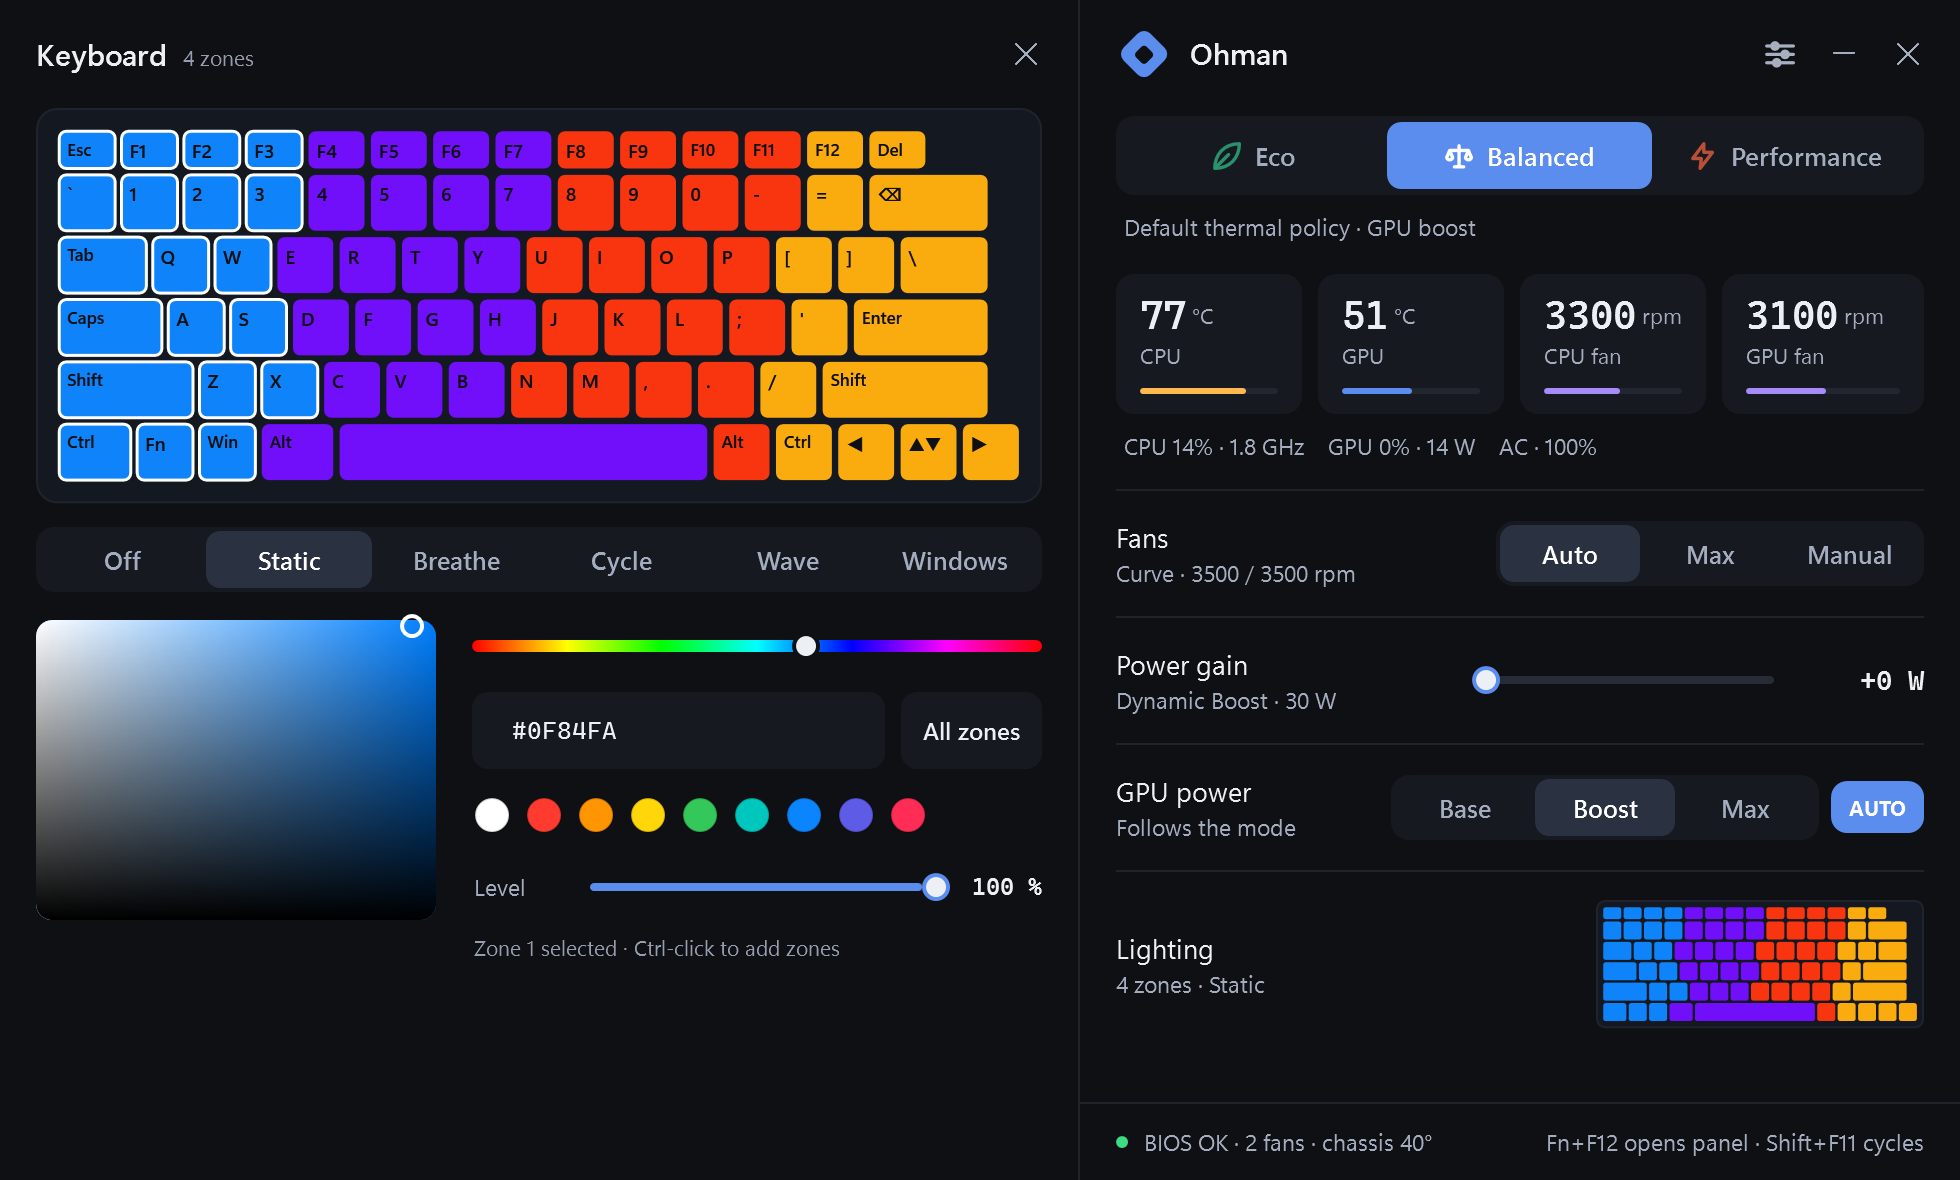
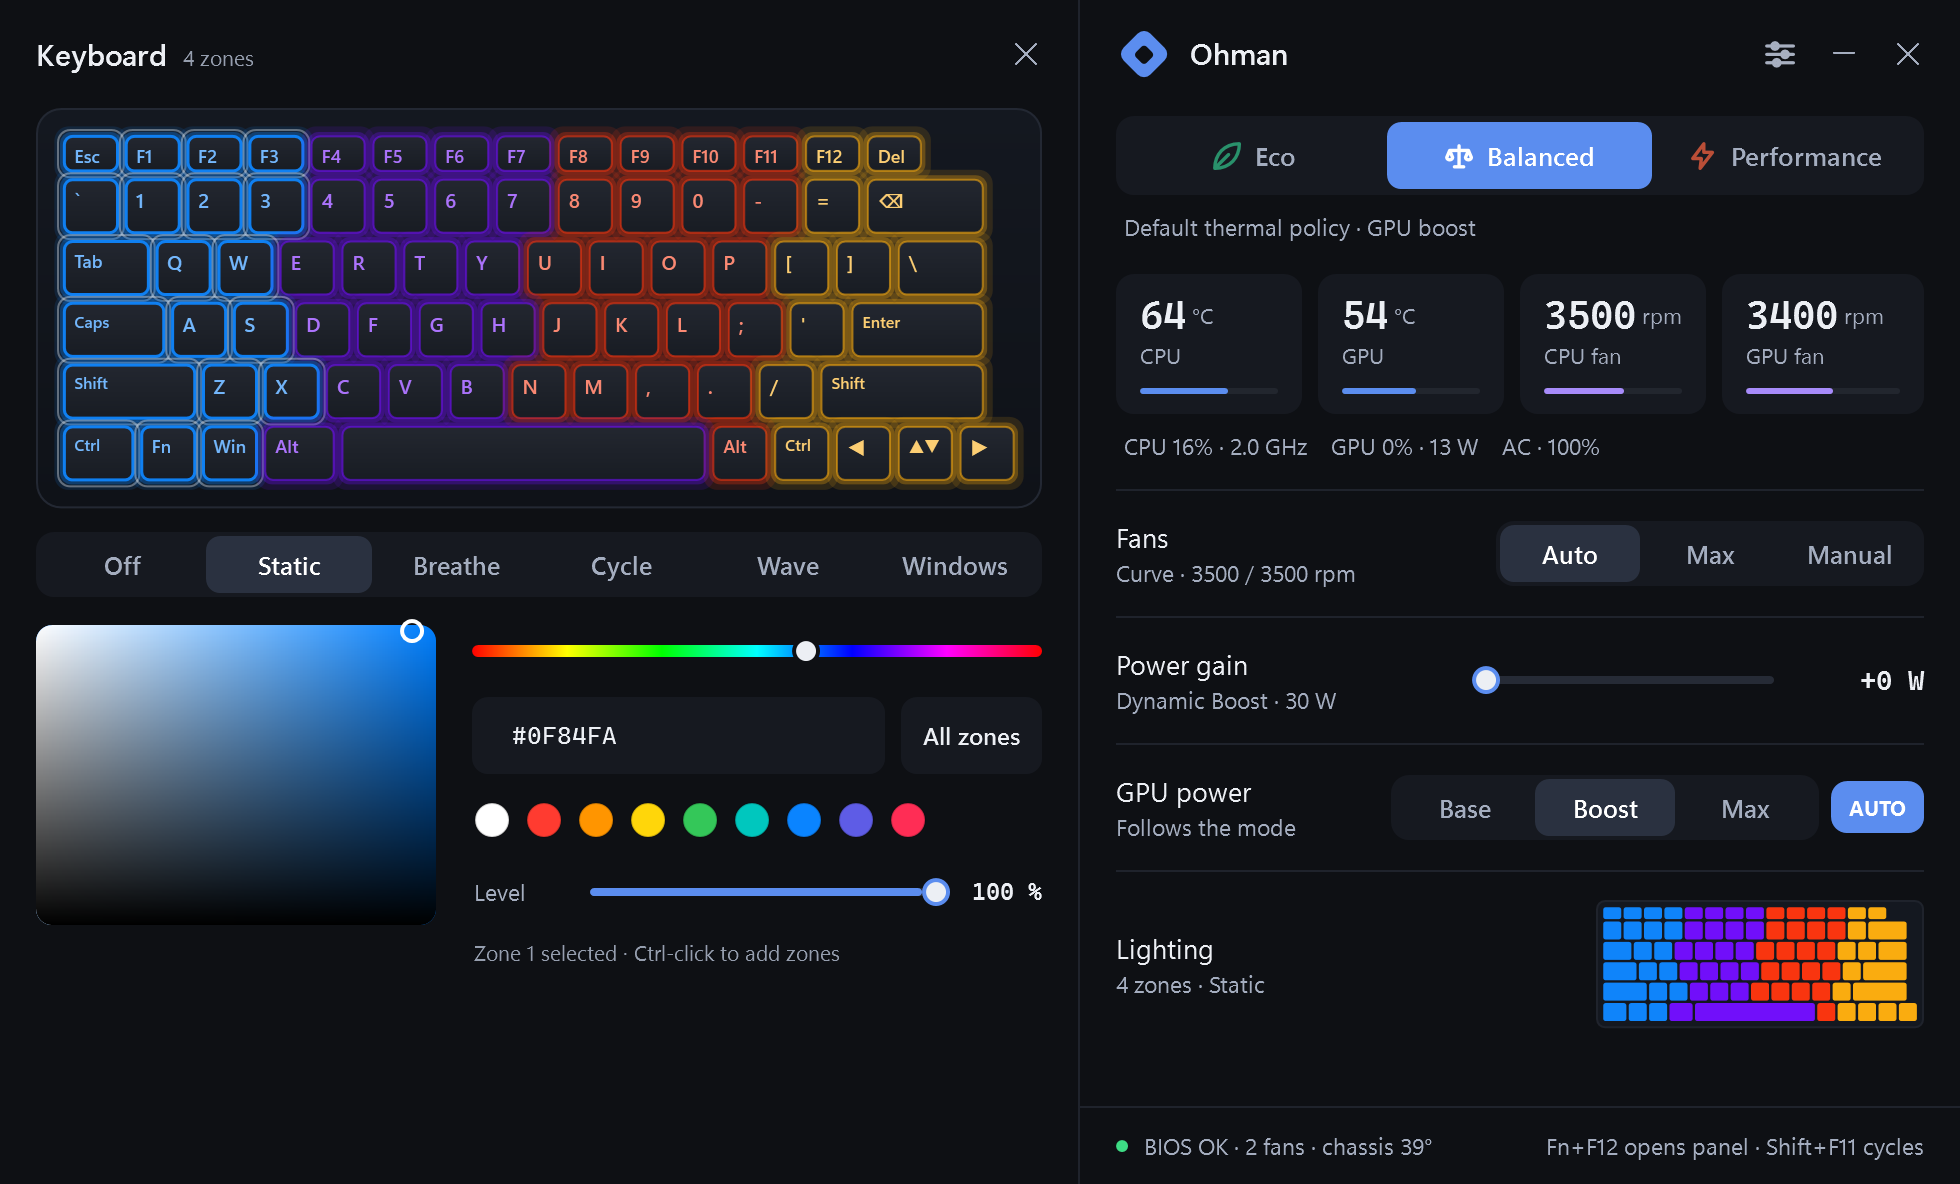
Keyboard editor: lit keycaps with underglow and tinted legends; smooth slide (one window move per frame, height included)

diff --git a/src/Keyboard.cs b/src/Keyboard.cs
@@ -68,7 +68,7 @@ namespace Ohman {
 
         protected override Size MeasureOverride(Size a) {
             double w = double.IsInfinity(a.Width) ? 480 : a.Width;
-            double pad = Interactive ? 10 : 3;
+            double pad = Interactive ? 12 : 3;
             return new Size(w, (w - 2 * pad) / unitsW * unitsH + 2 * pad);
         }
 
@@ -76,29 +76,54 @@ namespace Ohman {
             return new Rect(pad + k.X * scale + gap, pad + k.Y * scale + gap, Math.Max(1, k.W * scale - 2 * gap), Math.Max(1, k.H * scale - 2 * gap));
         }
 
+        static Color Mix(Color a, Color b, double t) { return Color.FromRgb((byte)(a.R + (b.R - a.R) * t), (byte)(a.G + (b.G - a.G) * t), (byte)(a.B + (b.B - a.B) * t)); }
+        static Color WithA(Color c, double a) { return Color.FromArgb((byte)Math.Round(a * 255), c.R, c.G, c.B); }
+        static SolidColorBrush B(Color c) { var b = new SolidColorBrush(c); b.Freeze(); return b; }
+        static Color ToColor(Rgb c) { return Color.FromRgb(c.R, c.G, c.B); }
+
         protected override void OnRender(DrawingContext dc) {
-            double pad = Interactive ? 10 : 3, gap = Interactive ? 1.6 : 0.6;
+            double pad = Interactive ? 12 : 3, gap = Interactive ? 2.2 : 0.6;
             double scale = (ActualWidth - 2 * pad) / unitsW;
             double h = unitsH * scale + 2 * pad;
-            dc.DrawRoundedRectangle(Ui.Brush("#141820"), new Pen(Ui.Brush("#1F232C"), 1), new Rect(0.5, 0.5, ActualWidth - 1, h - 1), Interactive ? 10 : 4, Interactive ? 10 : 4);
-            double radius = Interactive ? 3.5 : 1.2;
+            if (!Interactive) {
+                // the small glyph: flat colour blocks read best at this size
+                dc.DrawRoundedRectangle(Ui.Brush("#141820"), new Pen(Ui.Brush("#1F232C"), 1), new Rect(0.5, 0.5, ActualWidth - 1, h - 1), 4, 4);
+                foreach (var k in Keys) {
+                    var r = KeyRect(k, scale, pad, gap);
+                    Color fill = Off || ZoneColors.Length == 0 ? Color.FromRgb(0x2A, 0x2F, 0x3A) : ToColor(ZoneColors[Math.Min(ZoneColors.Length - 1, k.Zone)]);
+                    dc.DrawRoundedRectangle(B(fill), null, r, 1.2, 1.2);
+                }
+                return;
+            }
+            // the editor: a dark deck, dark keycaps, and the zone colour as the light under and through each cap
+            var deck = new LinearGradientBrush(Color.FromRgb(0x14, 0x18, 0x20), Color.FromRgb(0x0F, 0x12, 0x18), 90); deck.Freeze();
+            dc.DrawRoundedRectangle(deck, new Pen(Ui.Brush("#232833"), 1), new Rect(0.5, 0.5, ActualWidth - 1, h - 1), 12, 12);
+            Color capTop = Color.FromRgb(0x23, 0x27, 0x30), capBottom = Color.FromRgb(0x18, 0x1C, 0x23), offLegend = Color.FromRgb(0x55, 0x5C, 0x6B);
             foreach (var k in Keys) {
                 var r = KeyRect(k, scale, pad, gap);
-                Color fill;
-                if (Off || ZoneColors.Length == 0) fill = Color.FromRgb(0x2A, 0x2F, 0x3A);
-                else { var c = ZoneColors[Math.Min(ZoneColors.Length - 1, PerKey ? Math.Min(k.Index, ZoneColors.Length - 1) : k.Zone)]; fill = Color.FromRgb(c.R, c.G, c.B); }
-                bool sel = Interactive && Selected.Contains(PerKey ? k.Index : k.Zone);
-                Pen pen = sel ? new Pen(Brushes.White, 1.5) : (Interactive && k.Index == hover ? new Pen(Ui.Brush("#A4ADBF"), 1) : null);
-                dc.DrawRoundedRectangle(new SolidColorBrush(fill), pen, r, radius, radius);
-                if (Interactive && k.Label.Length > 0 && r.Width > 14) {
-                    var ft = new FormattedText(k.Label, CultureInfo.InvariantCulture, FlowDirection.LeftToRight, Face, k.Label.Length > 2 ? 8.5 : 9.5, Off ? Ui.Brush("#6B7385") : Ui.Brush("#0E1014"), 1.0);
-                    dc.DrawText(ft, new Point(r.X + 4, r.Y + 3));
+                bool lit = !Off && ZoneColors.Length > 0;
+                Color zone = lit ? ToColor(ZoneColors[Math.Min(ZoneColors.Length - 1, PerKey ? Math.Min(k.Index, ZoneColors.Length - 1) : k.Zone)]) : offLegend;
+                bool sel = Selected.Contains(PerKey ? k.Index : k.Zone), hov = k.Index == hover;
+                if (lit) {
+                    // underglow: two soft layers around the cap
+                    var g1 = r; g1.Inflate(5, 5); dc.DrawRoundedRectangle(B(WithA(zone, 0.13)), null, g1, 7, 7);
+                    var g2 = r; g2.Inflate(2.2, 2.2); dc.DrawRoundedRectangle(B(WithA(zone, 0.28)), null, g2, 5.5, 5.5);
+                }
+                var cap = new LinearGradientBrush(capTop, capBottom, 90); cap.Freeze();
+                Pen edge = new Pen(B(lit ? WithA(zone, sel ? 0.95 : hov ? 0.8 : 0.55) : WithA(offLegend, sel ? 0.9 : 0.35)), sel ? 1.5 : 1);
+                dc.DrawRoundedRectangle(cap, edge, r, 4, 4);
+                if (sel) { var s2 = r; s2.Inflate(3.2, 3.2); dc.DrawRoundedRectangle(null, new Pen(B(WithA(Colors.White, 0.35)), 1), s2, 6, 6); }
+                if (k.Label.Length > 0 && r.Width > 14) {
+                    // legends glow in the zone colour, the way a backlit keyboard shows them
+                    Color legend = lit ? Mix(zone, Colors.White, 0.42) : offLegend;
+                    var ft = new FormattedText(k.Label, CultureInfo.InvariantCulture, FlowDirection.LeftToRight, Face, k.Label.Length > 3 ? 8 : k.Label.Length > 1 ? 9 : 10, B(legend), 1.0);
+                    dc.DrawText(ft, new Point(r.X + 5, r.Y + 3.5));
                 }
             }
         }
 
         KeyDef Hit(Point p) {
-            double pad = Interactive ? 10 : 3, gap = Interactive ? 1.6 : 0.6;
+            double pad = Interactive ? 12 : 3, gap = Interactive ? 2.2 : 0.6;
             double scale = (ActualWidth - 2 * pad) / unitsW;
             foreach (var k in Keys) if (KeyRect(k, scale, pad, gap).Contains(p)) return k;
             return null;

diff --git a/src/Ui.cs b/src/Ui.cs
@@ -519,26 +519,44 @@ namespace Ohman {
         /// <summary>The editor opens to the left of the panel. The content is anchored to the window's right edge, so
         /// growing the window leftwards reveals the editor while the panel stays exactly where it was.</summary>
         const double BaseWidth = 440;
-        DispatcherTimer slide;
+        [DllImport("user32.dll")] static extern bool SetWindowPos(IntPtr hWnd, IntPtr after, int x, int y, int cx, int cy, uint flags);
+        const uint SWP_NOZORDER = 0x0004, SWP_NOACTIVATE = 0x0010;
+        bool sliding;
+        double MeasuredHeight(double width) {
+            root.Measure(new Size(width, double.PositiveInfinity));
+            double max = Math.Max(420, SystemParameters.WorkArea.Height - 24);
+            return Math.Min(Math.Ceiling(root.DesiredSize.Height), max);
+        }
         public void ShowKeyboard(bool on) {
-            if (kbdMini == null || on == kbdOpen) return;
+            if (kbdMini == null || on == kbdOpen || sliding) return;
             kbdOpen = on;
             var wa = SystemParameters.WorkArea;
             double targetW = on ? BaseWidth + KbdWidth : BaseWidth;
             double targetL = on ? Math.Max(wa.Left, Left - KbdWidth) : Math.Min(Left + KbdWidth, wa.Right - BaseWidth);
             SizeToContent = SizeToContent.Manual;
-            if (on) { kbdPanel.Visibility = Visibility.Visible; root.Width = targetW; SyncPickerFromSelection(); }
-            Action finish = delegate { if (!on) { kbdPanel.Visibility = Visibility.Collapsed; root.Width = BaseWidth; } Refit(); Log.Write("keyboard editor " + (on ? "open" : "closed")); };
-            if (screenshotPath != null) { Width = targetW; Left = targetL; finish(); return; }
-            double w0 = ActualWidth, l0 = Left; DateTime t0 = DateTime.Now;
-            if (slide != null) slide.Stop();
-            slide = new DispatcherTimer(DispatcherPriority.Render) { Interval = TimeSpan.FromMilliseconds(12) };
-            slide.Tick += delegate {
-                double t = Math.Min(1, (DateTime.Now - t0).TotalMilliseconds / 220.0), e = 1 - Math.Pow(1 - t, 3);   // ease-out
-                Width = w0 + (targetW - w0) * e; Left = l0 + (targetL - l0) * e;
-                if (t >= 1) { slide.Stop(); Width = targetW; Left = targetL; finish(); }
+            // the height the window wants at the end, measured before anything moves, so height, width and position travel together
+            kbdPanel.Visibility = on ? Visibility.Visible : Visibility.Collapsed; root.Width = targetW;
+            double targetH = MeasuredHeight(targetW);
+            kbdPanel.Visibility = Visibility.Visible;                          // stays visible while sliding either way
+            if (on) SyncPickerFromSelection(); else root.Width = BaseWidth + KbdWidth;
+            Action finish = delegate {
+                if (!on) { kbdPanel.Visibility = Visibility.Collapsed; root.Width = BaseWidth; }
+                Width = targetW; Height = targetH; Left = targetL; Top = Math.Max(wa.Top, Math.Min(Top, wa.Bottom - targetH));
+                sliding = false; Log.Write("keyboard editor " + (on ? "open" : "closed"));
             };
-            slide.Start();
+            if (screenshotPath != null) { finish(); return; }
+            // one window move-and-size per rendered frame: width, left and height together, so nothing jumps
+            var hwnd = new WindowInteropHelper(this).Handle; var dpi = VisualTreeHelper.GetDpi(this);
+            double w0 = ActualWidth, l0 = Left, h0 = ActualHeight, top = Top; DateTime t0 = DateTime.Now;
+            sliding = true;
+            EventHandler tick = null;
+            tick = delegate {
+                double t = Math.Min(1, (DateTime.Now - t0).TotalMilliseconds / 260.0), e = 1 - Math.Pow(1 - t, 3);   // ease-out
+                double w = w0 + (targetW - w0) * e, l = l0 + (targetL - l0) * e, hh = h0 + (targetH - h0) * e;
+                SetWindowPos(hwnd, IntPtr.Zero, (int)Math.Round(l * dpi.DpiScaleX), (int)Math.Round(top * dpi.DpiScaleY), (int)Math.Round(w * dpi.DpiScaleX), (int)Math.Round(hh * dpi.DpiScaleY), SWP_NOZORDER | SWP_NOACTIVATE);
+                if (t >= 1) { CompositionTarget.Rendering -= tick; finish(); }
+            };
+            CompositionTarget.Rendering += tick;
         }
         void RefreshLighting() {
             if (E.Light == null || kbdMini == null) return;
